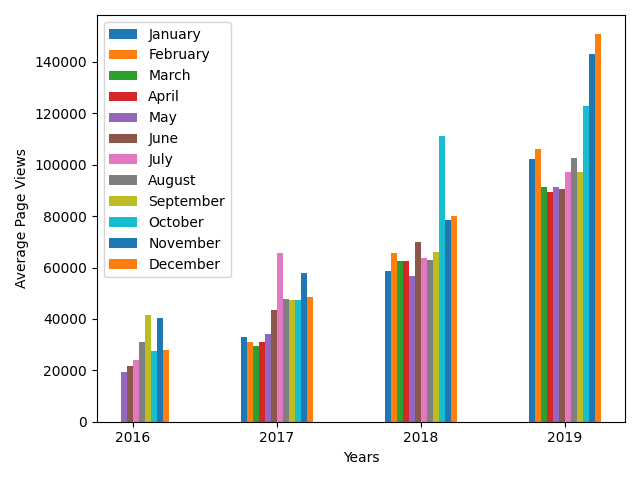
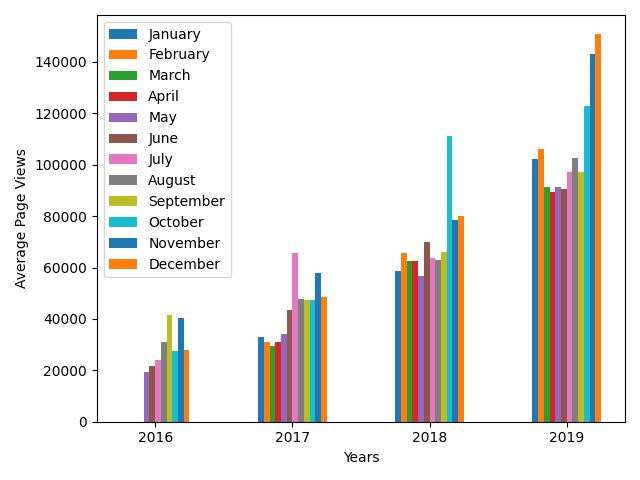
empty bars added to bar plot to meet test requirements

diff --git a/time_series_visualizer.py b/time_series_visualizer.py
@@ -41,18 +41,24 @@ def draw_bar_plot():
   # plot bar chart
   fig, ax = plt.subplots()
   months = ['January', 'February', 'March', 'April', 'May', 'June', 'July', 'August', 'September', 'October', 'November', 'December']
+  years = df_bar['year'].unique()
+  # get index of first month in 'month' column
+  x_shift = months.index(df_bar.iloc[0]['month'])
+
   for i, month in enumerate(months):
     rows = df_bar.loc[df_bar['month'] == month]
     x_values = rows.index.values
-    x = pd.Series(x_values).apply(lambda v: v + 12 * (4 - len(x_values) + math.floor(v / 12)))
+    x = pd.Series(x_values).apply(lambda v: v + 12 * (len(years) - len(x_values) + math.floor(v / 12))) + x_shift
     y = rows.value.values
     ax.bar(x, y, width=1, label=month, align='edge')
+  
+  # add 'x_shift' empty bars at the start to meet test requirements
+  ax.bar(range(0, x_shift), np.array([0]) * x_shift, width=1, align='edge')
 
   # Add custom x-axis tick labels, etc.
-  years = df_bar['year'].unique()
   ax.set_xlabel('Years')
   ax.set_ylabel('Average Page Views')
-  ax.set_xticks(np.arange(2, len(years) * 24, 24))
+  ax.set_xticks(np.arange(6, len(years) * 24, 24))
   ax.set_xticklabels(years)
   ax.legend()
 
